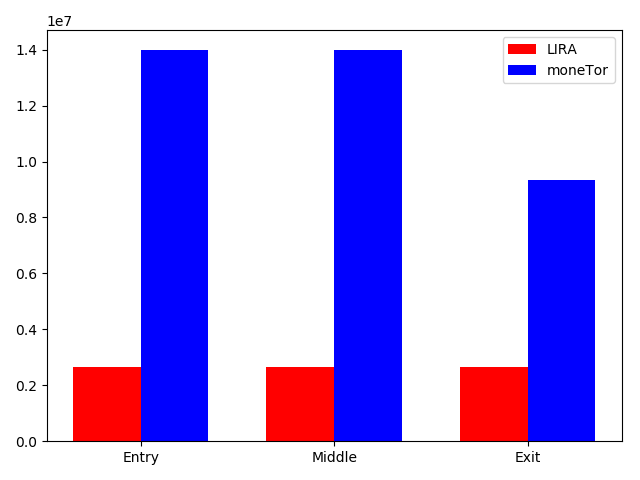
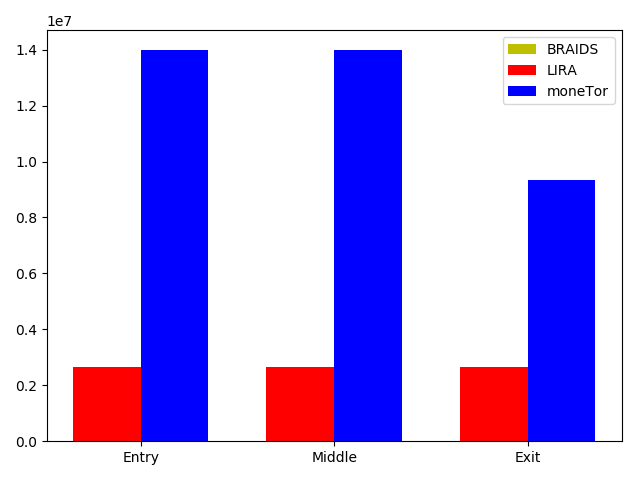
up image

Changed region(s): [[0.7812, 0.0938, 0.9688, 0.2188]]

diff --git a/tools/bw_analysis.py b/tools/bw_analysis.py
@@ -29,7 +29,7 @@ def  parse_descriptors(in_dirs):
   for in_consensuses_dir, in_descriptors, desc_out_dir in in_dirs:
     num_descriptors = 0
     num_relays = 0
-    with reader.DescriptorReader(in_descriptors, validate=True) as r:
+    with reader.DescriptorReader(in_descriptors, validate=False) as r:
       for desc in r:
         if desc.fingerprint not in descriptors:
           descriptors[desc.fingerprint] = {}
@@ -182,19 +182,26 @@ def analyse_bw(network_state_files, outpath):
       Compute approximation of bandwidh used for each position of each nodes
       based on relay selection probabilities
       """
+  
+  (cons_valid_afterB, cons_fresh_untilB, cons_bw_weightsB,\
+    cons_bwweightscale, braids, hibernating_statusesB,\
+    descriptorsB) = get_network_state(network_state_files[0])
+  
   (cons_valid_afterL, cons_fresh_untilL, cons_bw_weightsL,\
     cons_bwweightscale, lira, hibernating_statusesL,\
-    descriptorsL) = get_network_state(network_state_files[0])
+    descriptorsL) = get_network_state(network_state_files[1])
 
   (cons_valid_afterM, cons_fresh_untilM, cons_bw_weightsM,\
     cons_bwweightscale, moneTor, hibernating_statusesM,\
-    descriptorsM) = get_network_state(network_state_files[1])
+    descriptorsM) = get_network_state(network_state_files[2])
   #cons_rel_stats should only contains two of them 
   T, G, E, D, M , guardsL, guardexitsL, middlesL, exitsL = filter_relays(lira)
+  TB, GB, EB, DB, MB , guardsL, guardexitsL, middlesL, exitsL = filter_relays(braids)
   TM, GM, EM, DM, MM , guardsM, guardexitsM, middlesM, exitsM = filter_relays(moneTor)
-  
+  pdb.set_trace() 
   fig, ax = plt.subplots()
   width=0.35
+  p0 = ax.bar(np.arange(3), [GB+DB/2.0, M, E + D/2.0], width, color='y')
   p1 = ax.bar(np.arange(3), [(G*cons_bw_weightsL['Wgg']/float(cons_bwweightscale))+(D*cons_bw_weightsL['Wgd']/float(cons_bwweightscale)),\
       M+(G*cons_bw_weightsL['Wmg']/float(cons_bwweightscale))+(D*cons_bw_weightsL['Wmd']/float(cons_bwweightscale)),\
           E+(D*cons_bw_weightsL['Wed']/float(cons_bwweightscale))], width, color='r')
@@ -204,7 +211,7 @@ def analyse_bw(network_state_files, outpath):
     
   ax.set_xticks(np.arange(3)+width/2)
   ax.set_xticklabels(('Entry', 'Middle', 'Exit'))
-  ax.legend((p1[0], p2[0]), ('LIRA', 'moneTor'))
+  ax.legend((p0[0], p1[0], p2[0]), ('BRAIDS', 'LIRA', 'moneTor'))
   ax.autoscale_view()
   plt.tight_layout()
   plt.savefig(outpath)
@@ -269,6 +276,6 @@ if __name__ == "__main__":
     in_dirs = [(sys.argv[2], sys.argv[3], sys.argv[4])]
     parse_descriptors(in_dirs)
   elif sys.argv[1] == "analyse_bw":
-    analyse_bw([sys.argv[2], sys.argv[3]], sys.argv[4])
+    analyse_bw([sys.argv[2], sys.argv[3], sys.argv[4]], sys.argv[5])
   else:
     raise ValueError("Command %s does not exist".format(sys.argv[1]))
